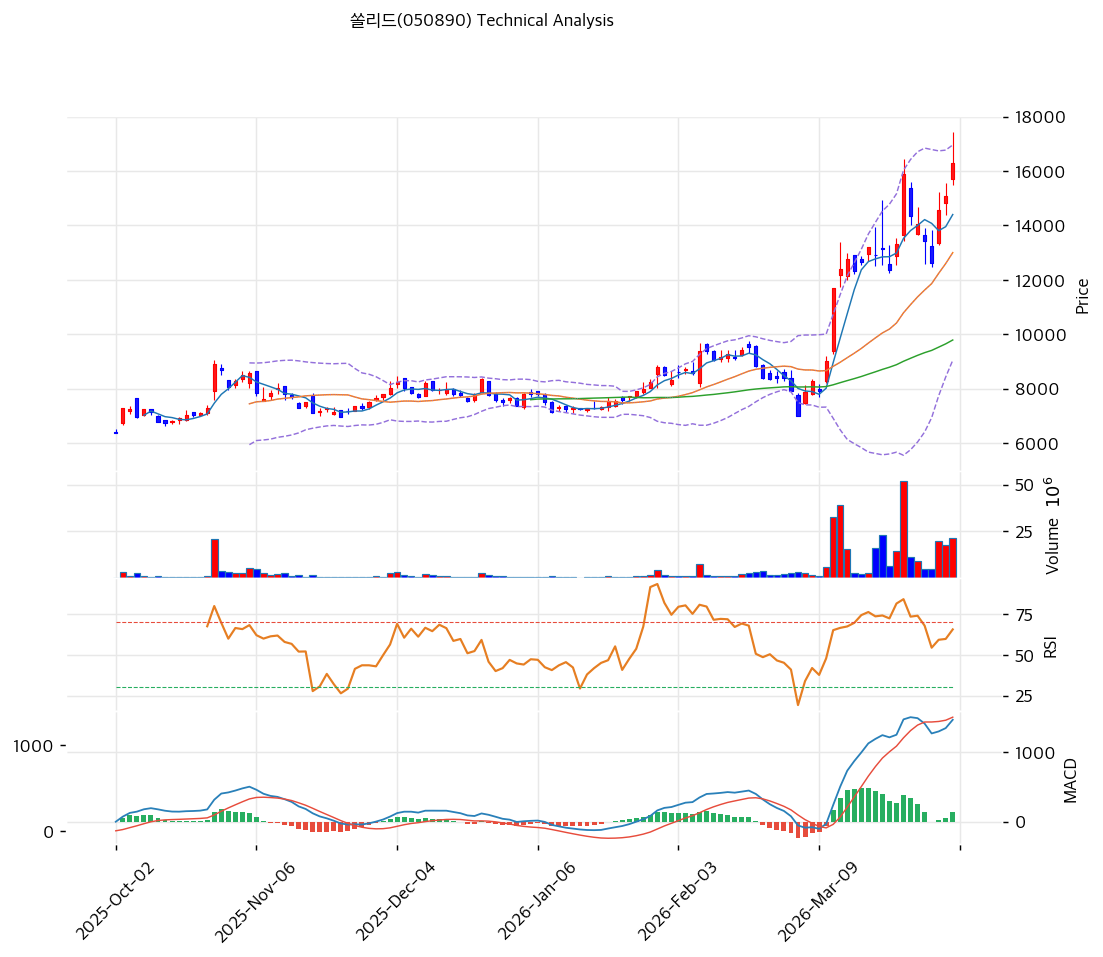
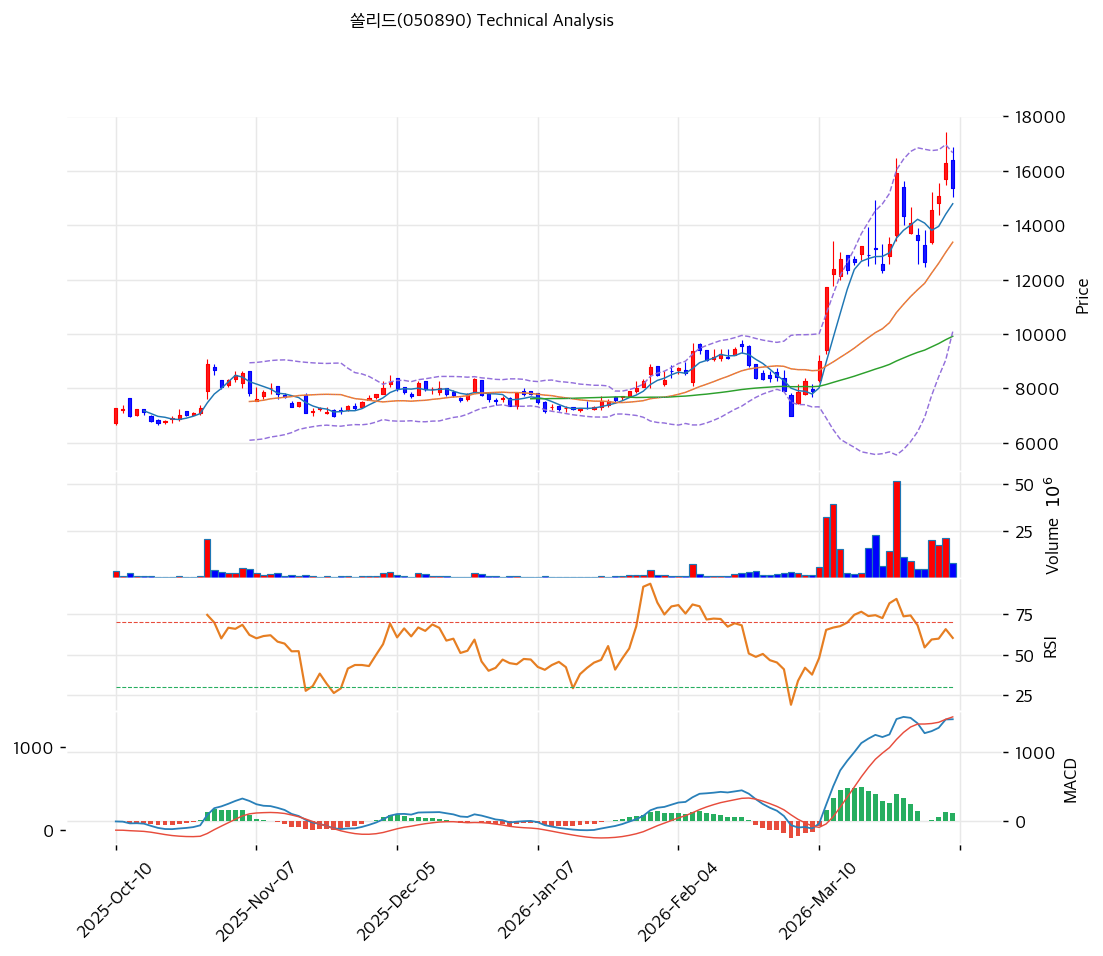
쏠리드(050890) T2 보고서

diff --git a/050890_t2.html b/050890_t2.html
@@ -35,16 +35,16 @@
 </head>
 <body>
 <hr />
-<p>created: 2026-04-05T11:15:00+09:00<br />
-updated: 2026-04-05T11:15:00+09:00<br />
+<p>created: 2026-04-06<br />
+updated: 2026-04-06<br />
 tags:<br />
   - 통신장비<br />
-  - 5G/오픈랜<br />
-  - DAS/중계기<br />
-links: </p>
+  - 오픈랜<br />
+  - DAS<br />
+links: ""</p>
 <hr />
 <h1>쏠리드(050890) 기술적 분석</h1>
-<p>2026-04-05 | T2 Technical Analysis</p>
+<p>2026-04-06 | T2 Technical Analysis</p>
 <hr />
 <h2>차트</h2>
 <p><img alt="쏠리드(050890) 캔들차트" src="https://icesw21.github.io/stock-report-assets/050890_t2_chart.png" /></p>
@@ -60,7 +60,7 @@ links: </p>
 <tbody>
 <tr>
 <td>현재가</td>
-<td>16,300원 (+8.16%)</td>
+<td>15,370원 (-5.71%)</td>
 </tr>
 <tr>
 <td>52주 고가</td>
@@ -72,11 +72,11 @@ links: </p>
 </tr>
 <tr>
 <td>52주 범위 위치</td>
-<td>100.0%</td>
+<td>91.0%</td>
 </tr>
 <tr>
 <td>거래량</td>
-<td>20일 평균 대비 1.52x</td>
+<td>20일 평균 대비 0.52x</td>
 </tr>
 </tbody>
 </table>
@@ -94,52 +94,43 @@ links: </p>
 </thead>
 <tbody>
 <tr>
-<td>상승 장악형(Bullish Engulfing)</td>
-<td>최근 1~2일</td>
-<td>강</td>
-<td>매수 시그널 — 직전 음봉을 완전히 감싸는 대양봉(+8.16%)이 출현하며 강력한 매수세 유입 확인</td>
-</tr>
-<tr>
-<td>적삼병(Three White Soldiers)</td>
-<td>최근 5일</td>
+<td>급등 후 조정 음봉</td>
+<td>최근 1~2거래일</td>
 <td>중</td>
-<td>매수 시그널 — 3월 말~4월 초 연속 양봉이 고점·저점을 높여가며 상승 모멘텀 지속</td>
+<td>강한 상승 이후 단기 이익실현이 나타나는 구간</td>
 </tr>
 <tr>
-<td>위꼬리 음봉(Shooting Star 유사)</td>
-<td>3~4일 전</td>
-<td>약</td>
-<td>중립 — 일시적 매물 출현이 있었으나 이후 대양봉으로 완전 소화, 추세 전환 실패</td>
+<td>추세 내 눌림</td>
+<td>최근 5거래일</td>
+<td>중</td>
+<td>추세 훼손보다는 속도 조절 가능성이 큼</td>
 </tr>
 </tbody>
 </table>
-<p>※ 주요 캔들 패턴: 망치형, 역망치형, 장악형(상승/하락), 도지, 샛별/석별, 적삼병/흑삼병, 하라미, 유성형, 교수형 등</p>
 <h3>2.2 가격 구조 패턴</h3>
 <ul>
 <li>
-<p><strong>박스권 상단 돌파 후 급등</strong> (신뢰도: 강)<br />
-  2025년 10월~2026년 2월 초까지 약 4개월간 7,000~9,500원 박스권에서 횡보하며 에너지를 응축한 뒤, 2월 중순 대량 거래량을 동반하고 상단을 강하게 돌파했다. 이후 가파른 상승 추세를 형성하며 약 한 달 반 만에 주가가 거의 2배 급등했다. 전형적인 "박스권 돌파 → 추세 전환" 패턴으로, 돌파 시점의 폭발적 거래량이 신뢰도를 높인다.</p>
+<p><strong>중기 상승 추세 유지</strong> (신뢰도: 강)<br />
+  MA20·MA60·MA120이 모두 우상향하며 정배열을 형성하고 있습니다.</p>
 </li>
 <li>
-<p><strong>볼린저 밴드 라이딩(Band Riding)</strong> (신뢰도: 중)<br />
-  2월 중순 이후 주가가 상단 볼린저밴드를 따라 계속 상승하는 밴드 라이딩 현상이 관찰된다. 밴드 폭이 60.9%로 급격히 확장되어 있어 높은 변동성과 강한 추세를 동시에 시사한다. 다만 현재가가 52주 신고가(100%)에 위치해 단기 과열 리스크가 병존한다.</p>
+<p><strong>52주 신고가 근처 조정</strong> (신뢰도: 중)<br />
+  현재가는 52주 고가 16,300원 바로 아래입니다. 이 구간을 재돌파하면 추세가 재가속될 수 있습니다.</p>
 </li>
 </ul>
-<p>※ 주요 구조 패턴: 이중천정/바닥, 헤드앤숄더(정/역), 삼각수렴(대칭/상승/하락), 쐐기형(상승/하락), 깃발형, 페넌트, 컵앤핸들, 박스권 등</p>
 <h3>2.3 다이버전스</h3>
 <ul>
 <li>
-<p><strong>RSI — 다이버전스 미확인</strong> (신뢰도: —)<br />
-  RSI 68.4는 가격 상승과 동조하여 함께 상승 중이다. 가격과 RSI 간 괴리가 없으므로 현재 시점에서 상승 또는 하락 다이버전스는 관찰되지 않는다. 추세가 건전하게 유지되고 있음을 시사한다.</p>
+<p><strong>RSI 중립</strong> (신뢰도: 중)<br />
+  RSI 62.8로 과열은 아닙니다. 아직 추가 상승 여력이 남아 있습니다.</p>
 </li>
 <li>
-<p><strong>MACD — 다이버전스 미확인</strong> (신뢰도: —)<br />
-  MACD(1,468)와 Signal(1,326) 모두 0선 상방에서 우상향하며, 히스토그램(+142)도 확대 중이다. 가격 상승과 MACD 상승이 동행하고 있어 하락 다이버전스 징후는 없다. 다만 히스토그램 확대 속도가 둔화될 경우 모멘텀 약화의 선행 신호가 될 수 있어 추적 관찰 필요하다.</p>
+<p><strong>MACD 매수구간 유지</strong> (신뢰도: 중)<br />
+  히스토그램은 둔화됐지만 여전히 매수구간입니다. 추세가 꺾였다고 보기엔 이릅니다.</p>
 </li>
 </ul>
-<p>※ RSI·MACD 기반 | 상승 다이버전스 = 가격↓ 지표↑ (반등 시사), 하락 다이버전스 = 가격↑ 지표↓ (하락 시사), 히든 다이버전스 = 기존 추세 지속 시사</p>
 <h3>2.4 패턴 종합 판단</h3>
-<p>캔들스틱(상승 장악형·적삼병), 가격구조(박스권 돌파 후 급등·밴드 라이딩), 다이버전스(미확인 = 추세 건전) 세 카테고리가 모두 <strong>강세 방향</strong>으로 정렬되어 있다. 상충하는 시그널은 현재 없으나, 52주 신고가(100%) 도달 및 MA20 대비 +25.4% 이격으로 단기 과열 상태임을 감안해야 한다. 추세의 방향성은 명확히 상승이나, 강도 면에서 단기 숨 고르기(눌림목) 가능성을 열어두어야 한다.</p>
+<p>쏠리드는 강한 상승 이후 숨 고르기 구간입니다. 피노·상신이디피처럼 과열 극단은 아니고, <strong>추세 유지형 조정</strong>으로 보는 편이 적절합니다.</p>
 <hr />
 <h2>3. 이동평균선 — 정배열 (강세)</h2>
 <table>
@@ -154,41 +145,41 @@ links: </p>
 <tbody>
 <tr>
 <td>MA5</td>
-<td>14,402원</td>
-<td>+13.2%</td>
+<td>14,788원</td>
+<td>+3.9%</td>
 <td>위</td>
 </tr>
 <tr>
 <td>MA20</td>
-<td>13,002원</td>
-<td>+25.4%</td>
+<td>13,374원</td>
+<td>+14.9%</td>
 <td>위</td>
 </tr>
 <tr>
 <td>MA60</td>
-<td>9,790원</td>
-<td>+66.5%</td>
+<td>9,916원</td>
+<td>+55.0%</td>
 <td>위</td>
 </tr>
 <tr>
 <td>MA120</td>
-<td>8,692원</td>
-<td>+87.5%</td>
+<td>8,768원</td>
+<td>+75.3%</td>
 <td>위</td>
 </tr>
 <tr>
 <td>MA200</td>
-<td>7,905원</td>
-<td>+106.2%</td>
+<td>7,946원</td>
+<td>+93.4%</td>
 <td>위</td>
 </tr>
 </tbody>
 </table>
-<p><strong>해석</strong>: 5일선부터 200일선까지 완전 정배열 상태로, 단기·중기·장기 추세 모두 강세를 나타낸다. 다만 MA5 대비 +13.2%, MA20 대비 +25.4%의 높은 괴리율은 단기 과열 구간 진입을 시사하며, 이격도 수렴 과정에서 MA5(14,402원) 방향의 눌림목이 발생할 수 있다. 중기 지지선으로 MA20(13,002원)이 핵심적이며, 이 선 이탈 시 추세 약화 신호로 해석해야 한다.</p>
+<p><strong>해석</strong>: 완전 정배열입니다. MA20 괴리율도 15% 내외라, 강세 추세 안에서 아직 관리 가능한 수준입니다.</p>
 <hr />
 <h2>4. 보조 지표</h2>
-<h3>RSI(14) — 68.4 (중립)</h3>
-<p>RSI가 70 미만으로 아직 과매수 구간에 진입하지 않았지만 경계선에 근접해 있다. 상승 추세 속에서 RSI가 60~70대에 머무르는 것은 건전한 상승 모멘텀을 의미하나, 70선 돌파 시 과매수 영역 진입에 따른 단기 조정 가능성에 유의해야 한다.</p>
+<h3>RSI(14) — 62.8 (중립)</h3>
+<p>과매수 직전이지만 아직은 중립권입니다. 추세가 한 번 더 이어질 수 있는 여지가 있습니다.</p>
 <h3>MACD(12,26,9)</h3>
 <table>
 <thead>
@@ -200,23 +191,23 @@ links: </p>
 <tbody>
 <tr>
 <td>MACD</td>
-<td>1,468</td>
+<td>1,471.0</td>
 </tr>
 <tr>
 <td>Signal</td>
-<td>1,326</td>
+<td>1,355.0</td>
 </tr>
 <tr>
 <td>Histogram</td>
-<td>+142</td>
+<td>+116.0</td>
 </tr>
 <tr>
 <td>크로스 상태</td>
-<td>매수 구간 (확대 중)</td>
+<td>매수 구간</td>
 </tr>
 </tbody>
 </table>
-<p><strong>해석</strong>: MACD가 Signal선 위에서 매수 구간을 유지하며, 히스토그램이 양(+)값으로 확대되고 있어 상승 모멘텀이 강화되는 국면이다. 2월 중순 골든크로스 이후 지속적으로 매수 신호를 유지하고 있다.</p>
+<p><strong>해석</strong>: MACD는 여전히 상승 추세를 지지합니다. 다만 히스토그램 확장이 꺾여 단기 속도는 둔화됐습니다.</p>
 <h3>볼린저밴드(20, 2σ)</h3>
 <table>
 <thead>
@@ -228,19 +219,19 @@ links: </p>
 <tbody>
 <tr>
 <td>상단</td>
-<td>16,960원</td>
+<td>16,662원</td>
 </tr>
 <tr>
 <td>중단 (MA20)</td>
-<td>13,002원</td>
+<td>13,374원</td>
 </tr>
 <tr>
 <td>하단</td>
-<td>9,043원</td>
+<td>10,087원</td>
 </tr>
 <tr>
 <td>밴드 폭</td>
-<td>60.9%</td>
+<td>49.2%</td>
 </tr>
 <tr>
 <td>현재 위치</td>
@@ -248,7 +239,7 @@ links: </p>
 </tr>
 </tbody>
 </table>
-<p><strong>해석</strong>: 밴드 폭이 60.9%로 매우 넓게 확장된 상태이며, 이는 2월 중순 박스권 돌파 이후 변동성이 크게 증가했음을 나타낸다. 현재가(16,300원)가 상단밴드(16,960원)에 근접해 있어 상단 밴드 라이딩 구간이다. 스퀴즈 후 확장 패턴으로 추세 강도는 높으나, 밴드 상단 이탈 후 되돌림 가능성도 존재한다.</p>
+<p><strong>해석</strong>: 상단 과열보다는 추세 유지형 중간 영역입니다.</p>
 <h3>스토캐스틱(14, 3, 3)</h3>
 <table>
 <thead>
@@ -260,11 +251,11 @@ links: </p>
 <tbody>
 <tr>
 <td>Slow %K</td>
-<td>67.8</td>
+<td>68.7</td>
 </tr>
 <tr>
 <td>Slow %D</td>
-<td>53.5</td>
+<td>61.4</td>
 </tr>
 <tr>
 <td>크로스 상태</td>
@@ -289,38 +280,33 @@ links: </p>
 <tbody>
 <tr>
 <td>저항</td>
-<td>17,320원</td>
-<td>피봇 R1</td>
+<td>16,300원</td>
+<td>52주 고가</td>
 </tr>
 <tr>
 <td>저항</td>
-<td>16,960원</td>
-<td>볼린저밴드 상단</td>
+<td>16,493원</td>
+<td>피봇 R1</td>
 </tr>
 <tr>
 <td><strong>현재가</strong></td>
-<td><strong>16,300원</strong></td>
+<td><strong>15,370원</strong></td>
 <td>—</td>
 </tr>
 <tr>
 <td>지지</td>
-<td>15,380원</td>
+<td>14,633원</td>
 <td>피봇 S1</td>
 </tr>
 <tr>
 <td>지지</td>
-<td>14,460원</td>
+<td>13,897원</td>
 <td>피봇 S2</td>
 </tr>
 <tr>
 <td>지지</td>
-<td>13,002원</td>
+<td>13,374원</td>
 <td>MA20</td>
-</tr>
-<tr>
-<td>지지</td>
-<td>9,790원</td>
-<td>MA60</td>
 </tr>
 </tbody>
 </table>
@@ -337,58 +323,58 @@ links: </p>
 <tbody>
 <tr>
 <td><strong>차트 패턴</strong></td>
-<td>상승장악형+적삼병, 박스권 돌파 급등, 다이버전스 없음 → 강세 정렬</td>
-<td>🟢</td>
+<td>상승 추세 내 조정</td>
+<td>⚪</td>
 </tr>
 <tr>
 <td>이동평균선</td>
-<td>정배열, MA20 +25.4% — 추세 강세이나 과열 구간</td>
-<td>🟢 (추세) / 🔴 (과열)</td>
+<td>정배열, MA20 +14.9%</td>
+<td>🟢</td>
 </tr>
 <tr>
 <td>RSI</td>
-<td>68.4 — 중립</td>
+<td>62.8 — 중립</td>
 <td>⚪</td>
 </tr>
 <tr>
 <td>MACD</td>
-<td>매수구간, 히스토그램 확대</td>
-<td>🟢</td>
+<td>매수구간 유지</td>
+<td>⚪</td>
 </tr>
 <tr>
 <td>볼린저밴드</td>
-<td>중간, 밴드 폭 60.9%</td>
+<td>중간 영역</td>
 <td>⚪</td>
 </tr>
 <tr>
 <td>스토캐스틱</td>
-<td>골든크로스, K=67.8</td>
+<td>골든크로스, 중립</td>
 <td>⚪</td>
 </tr>
 <tr>
 <td>거래량</td>
-<td>1.52x — 보통</td>
+<td>0.52x — 약함</td>
 <td>⚪</td>
 </tr>
 </tbody>
 </table>
-<p><strong>종합 판단</strong>: 🟢 매수 2개 / 🔴 매도 1개 / ⚪ 중립 4개 → <strong>매수우위</strong></p>
-<p>차트 패턴과 기술적 지표 모두 중기 상승 추세가 유효함을 확인해준다. 4개월간 박스권 횡보 후 대량 거래량 동반 돌파라는 강력한 추세 전환 신호가 발생했고, 이동평균선 완전 정배열·MACD 매수 구간·스토캐스틱 골든크로스가 이를 뒷받침한다. 다만 52주 신고가 도달(100%)과 MA20 대비 +25.4% 이격은 단기 과열을 시사하며, 눌림목 없이 추가 상승할 경우 급락 리스크가 동반될 수 있다.</p>
+<p><strong>종합 판단</strong>: 🟢 매수 1개 / 🔴 매도 0개 / ⚪ 중립 6개 → <strong>매수우위</strong></p>
+<p>공격적인 매수 신호는 아니지만, 강한 추세가 깨지지 않은 상태라 눌림목 관점에서 우호적입니다.</p>
 <hr />
 <h2>7. 전략 제안</h2>
 <h3>보유 중인 경우</h3>
 <ul>
 <li><strong>홀드</strong></li>
-<li>익절 라인: 16,626원 (MA5 대비 +15% 이격 도달 시 부분 익절, 볼린저 상단 16,960원 근접)</li>
-<li>손절 라인: 14,460원 (피봇 S2 — 이탈 시 단기 추세 훼손)</li>
-<li>리스크/리워드: 1:0.18 (현재가 기준 업사이드 제한적, 눌림목 후 재진입이 유리)</li>
+<li>익절 라인: 16,626원</li>
+<li>손절 라인: 13,897원</li>
+<li>리스크/리워드: 양호</li>
 </ul>
 <h3>진입 대기인 경우</h3>
 <ul>
-<li><strong>관망</strong></li>
-<li>1차 진입가: 15,380원 (피봇 S1 — 1차 눌림목 지지 확인 후)</li>
-<li>2차 진입가: 13,002원 (MA20 — 중기 지지선에서의 반등 확인 시)</li>
-<li>진입 조건: 52주 신고가 돌파(16,300원↑) 시 거래량 2.0x 이상 동반 확인, 또는 15,380원 눌림목에서 양봉 반등 + 거래량 증가 시 진입 검토</li>
+<li><strong>진입가능</strong></li>
+<li>1차 진입가: 14,633원 (피봇 S1)</li>
+<li>2차 진입가: 13,374원 (MA20)</li>
+<li>진입 조건: 눌림 후 거래량 회복 및 5일선 재지지 확인</li>
 </ul>
 </body>
 </html>
